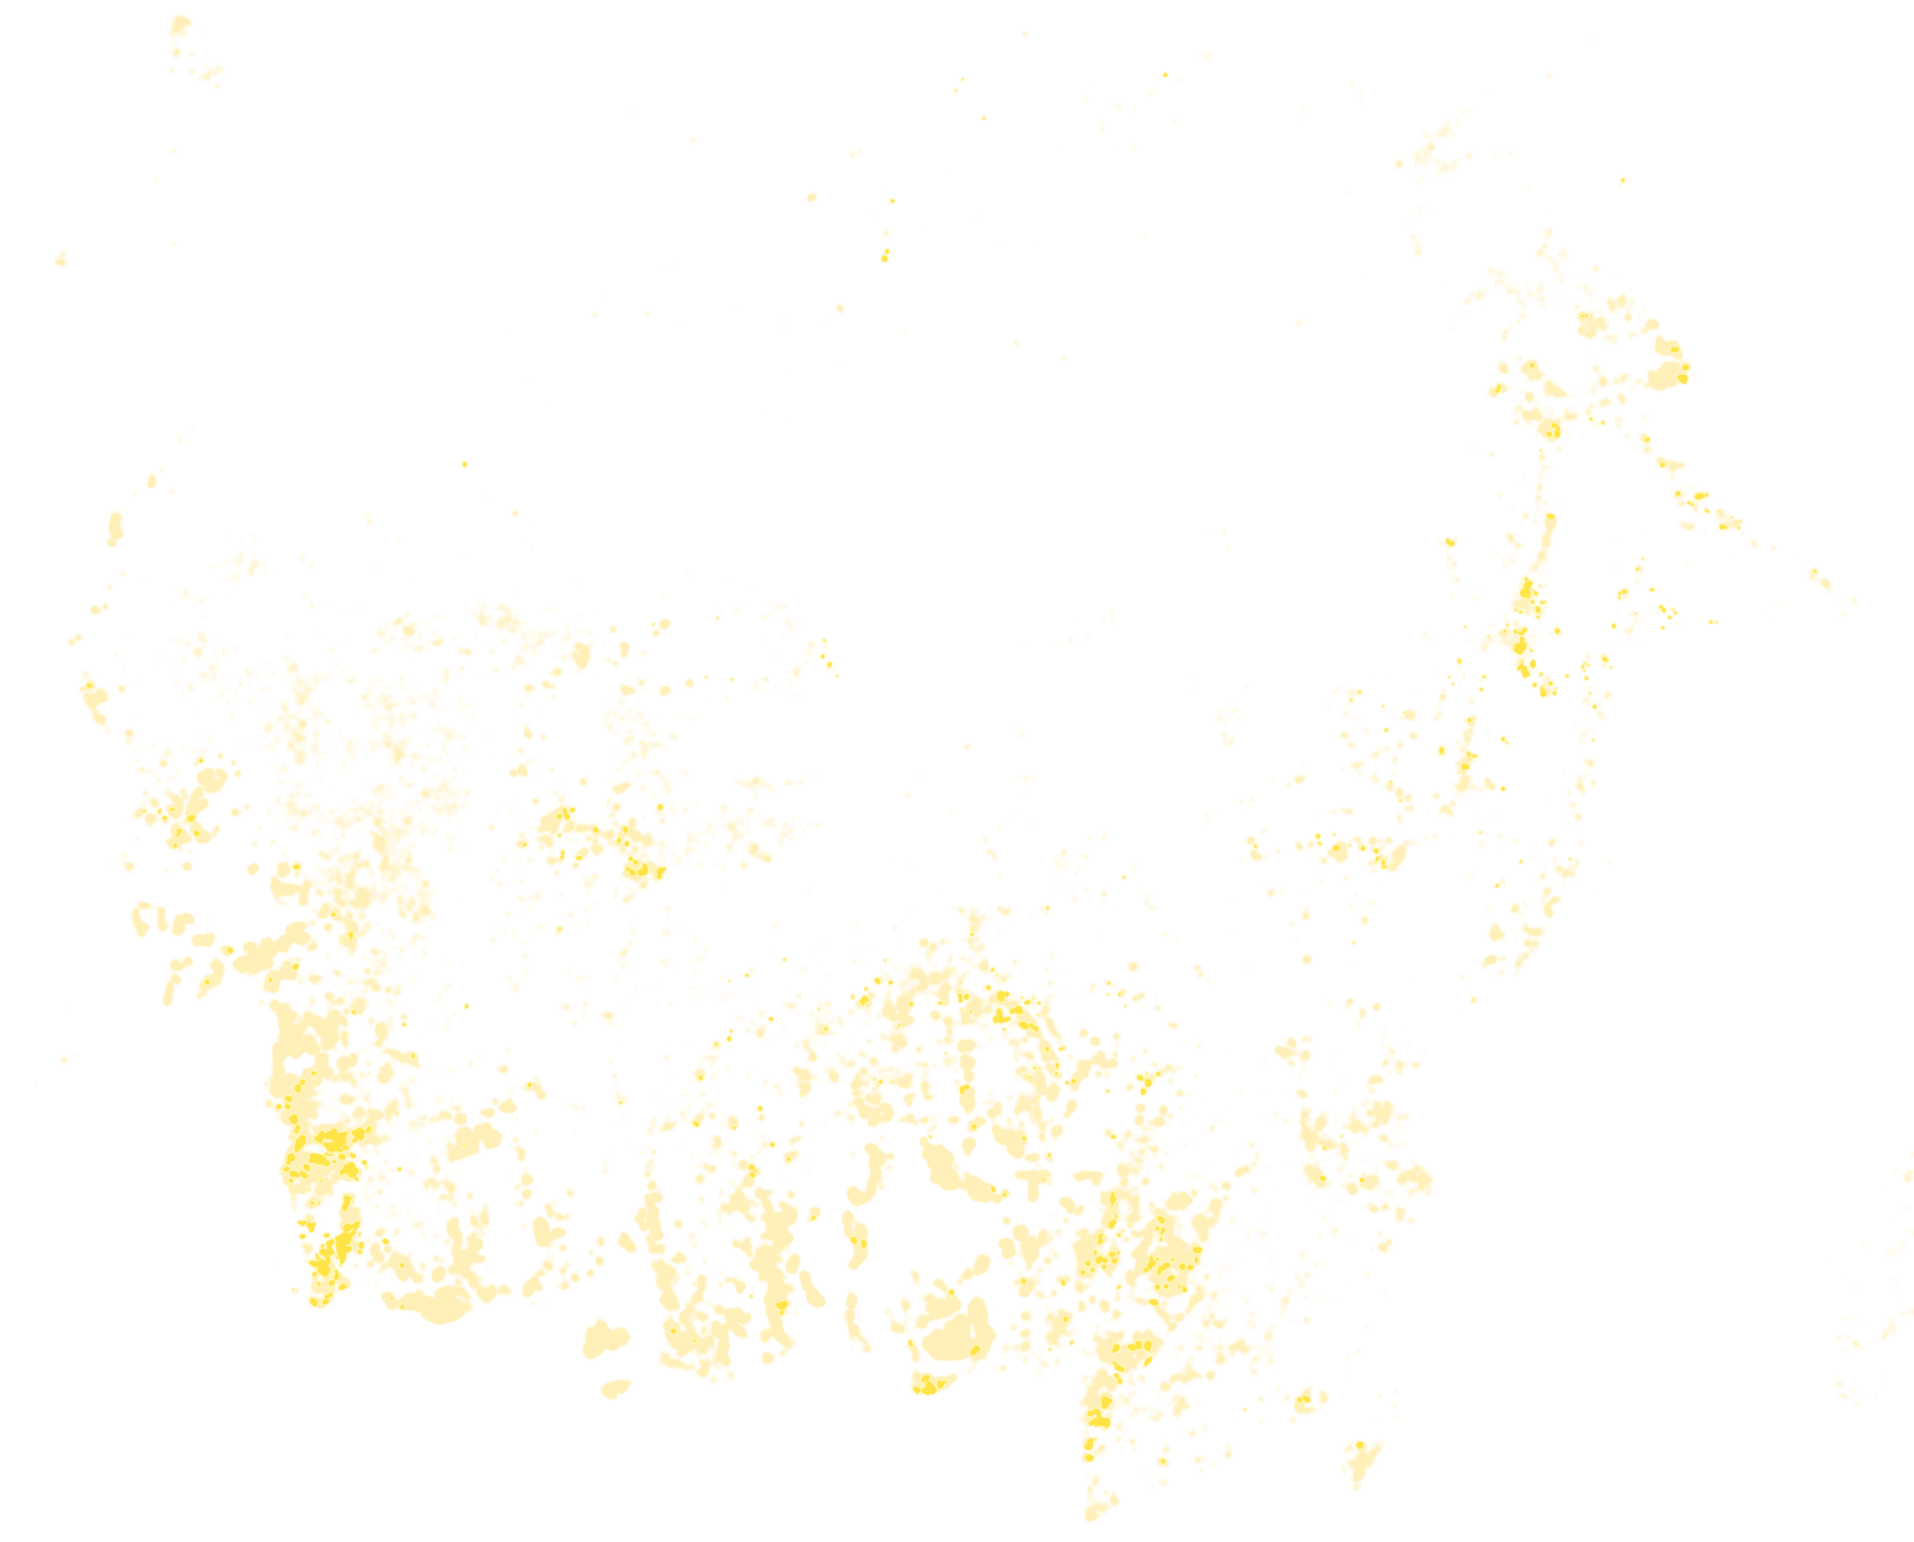
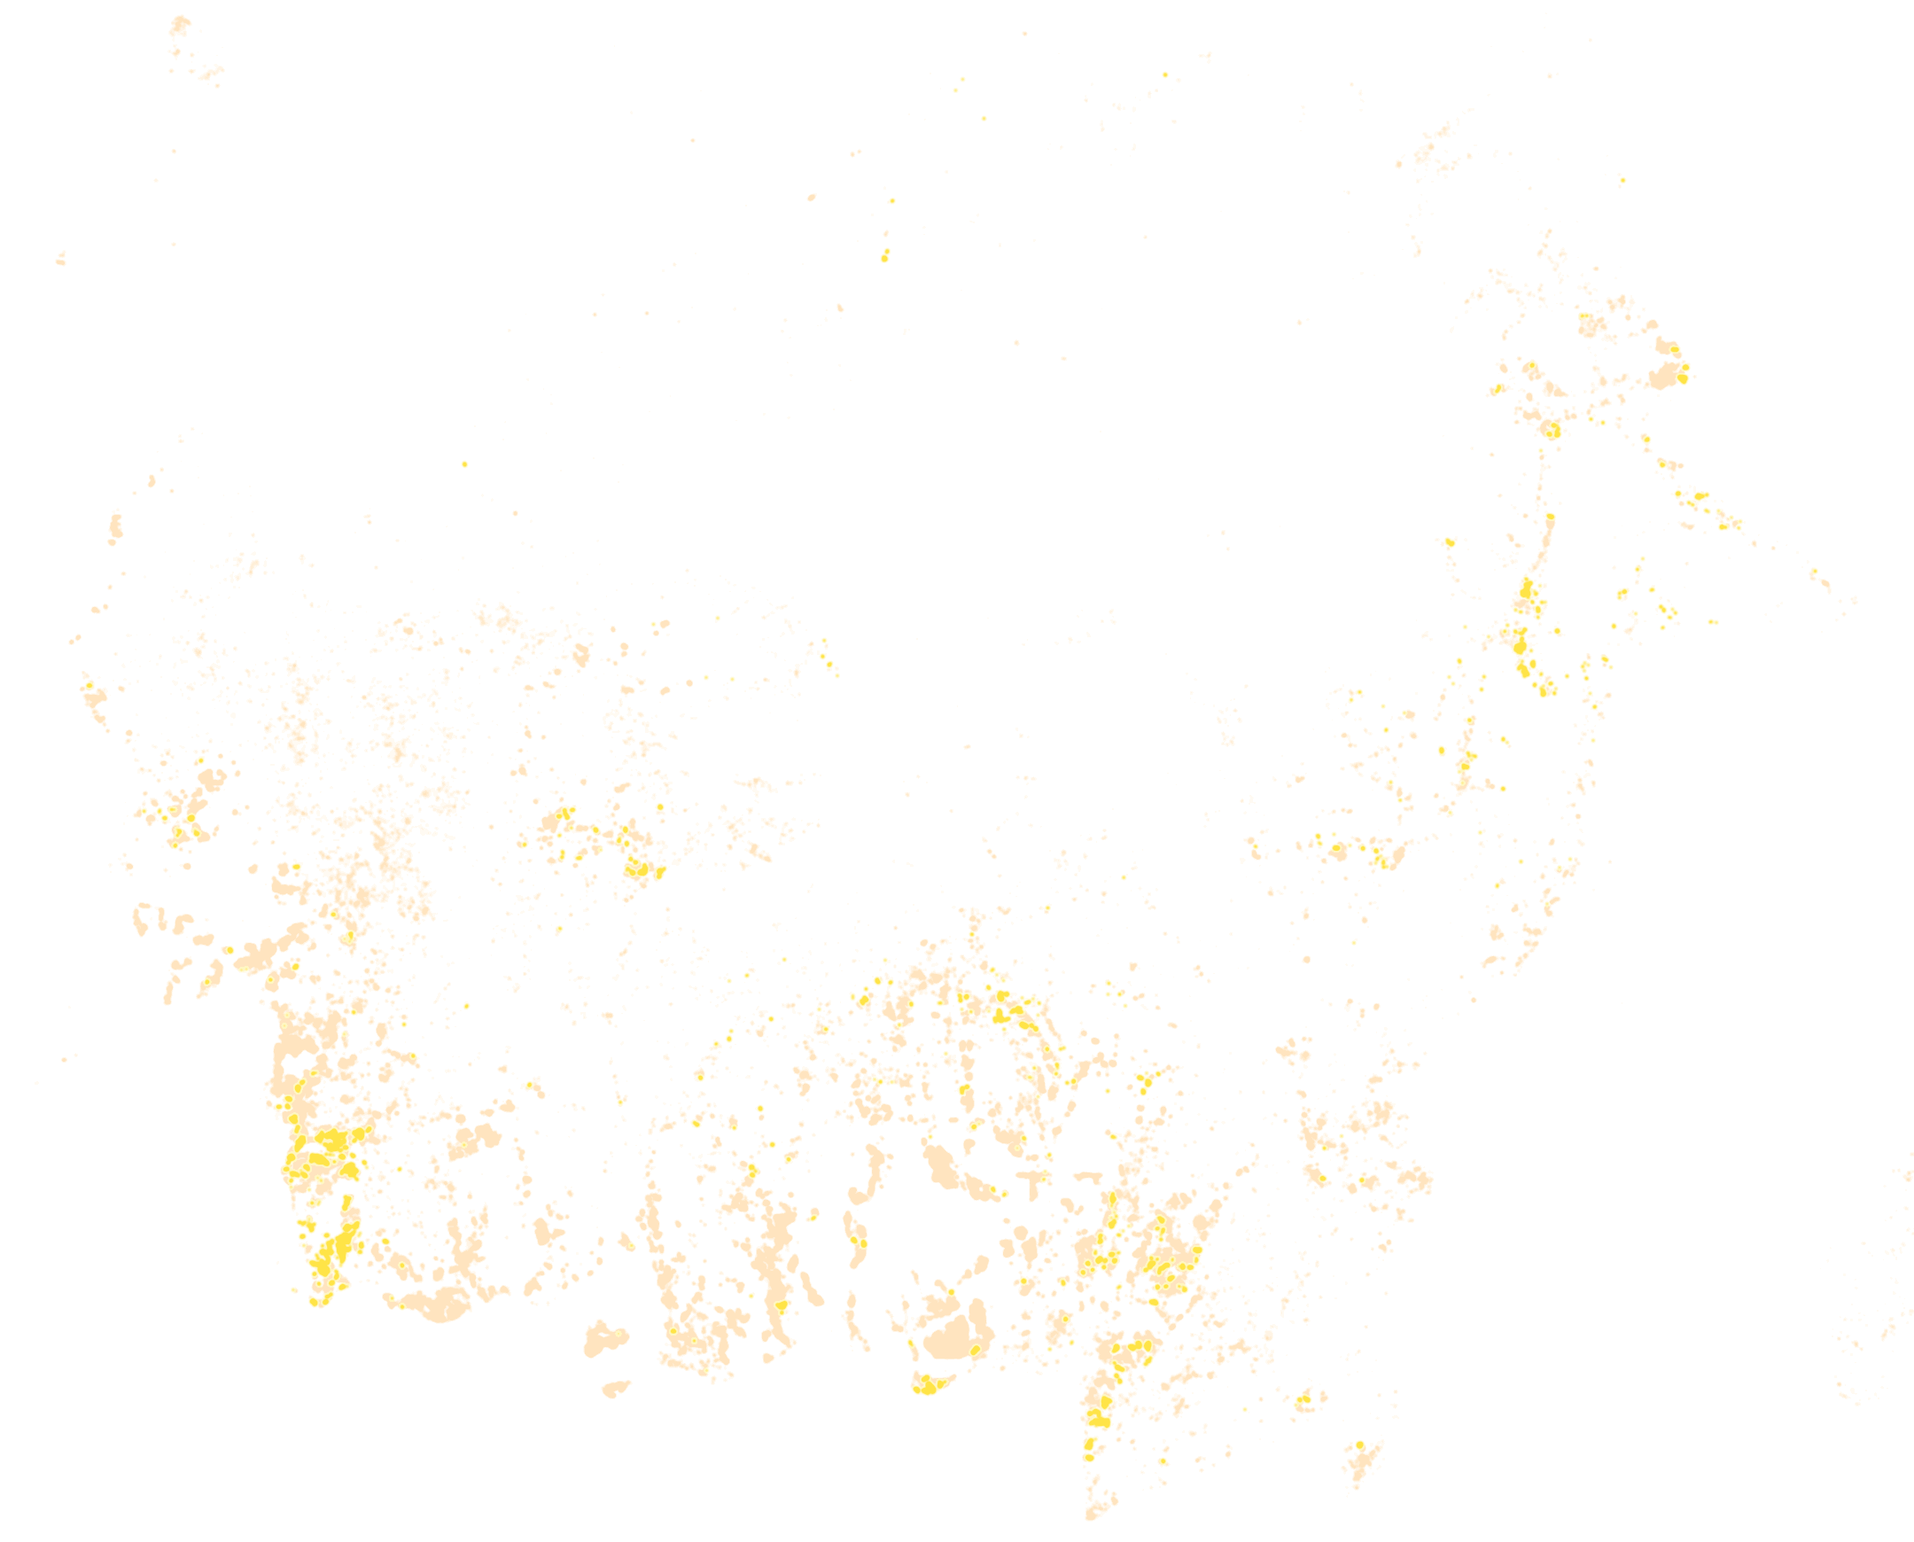
Fix review round 5: chapter 4 fits 800 px laptops, readable CO, warmer fire fields
Chapter 4: wide, short chart and tighter type at laptop heights so the
Ketapang chart opens fully above the dock; on phones it scrolls into view.
CO: three-stop violet ramp from 95 to 330 ppb, capped opacity, fine alpha
steps, so the plume's structure and the land both show; ppb on chips; chapter
1 text follows the Haze / Fire gas switch; Explore shows the matching scale
and note. Fire fields warm orange and tighter, key swatch soft. Smoke off
flies back to Borneo; AIRS and OPERA in the map credit; phone city line
dropped (chips carry it), Banjarmasin chip offset. SUBMISSION.md ignored.

diff --git a/web/app.js b/web/app.js
@@ -22,7 +22,7 @@
   L.control.zoom({ position: "topright" }).addTo(map);
   map.attributionControl.setPrefix(false);
   map.attributionControl.addAttribution("Radar: NISAR GCOV (NASA/ISRO, ASF DAAC) · Fires: NASA FIRMS · " +
-    "Smoke: NASA VIIRS Deep Blue AOD · Basemap: NASA Blue Marble (GIBS) · Peat: Peat-ML");
+    "Smoke: NASA VIIRS Deep Blue AOD · CO: NASA AIRS · Optical: NASA OPERA · Basemap: NASA Blue Marble (GIBS) · Peat: Peat-ML");
   const pane = (name, z) => { const p = map.createPane(name); p.style.zIndex = z; return p; };
   pane("radar", 402); pane("peat", 405); pane("fires", 410); pane("loss", 420); pane("peatburn", 425);
   pane("smoke", 430); pane("probe", 600);
@@ -55,7 +55,7 @@
   const level = (v) => v == null ? "none" : view.gas === "co"
     ? (v >= 200 ? "thick" : v >= 110 ? "hazy" : "clear")   // CO: June is about 80 ppbv
     : (v >= 2 ? "thick" : v >= 0.3 ? "hazy" : "clear");    // haze: matches the scale bar
-  const fmtReading = (v) => v == null ? "no reading" : view.gas === "co" ? `${v}` : v.toFixed(1);
+  const fmtReading = (v) => v == null ? "no reading" : view.gas === "co" ? `${v} ppb` : v.toFixed(1);
   let current = 0;
   function render() {
     const show = (el, on, o = 1) => { el.style.opacity = on ? o : 0; };
@@ -73,7 +73,7 @@
     view.smoke ? cities.addTo(map) : cities.remove();
     for (const { name, m } of cityMarkers) {
       const v = reading(name, current);
-      m.setIcon(L.divIcon({ className: `city ${level(v)}`, iconSize: null, html: `<b>${name}</b> ${fmtReading(v)}` }));
+      m.setIcon(L.divIcon({ className: `city ${level(v)} city-${name.replace(/\W/g, "")}`, iconSize: null, html: `<b>${name}</b> ${fmtReading(v)}` }));
     }
     document.querySelectorAll("[data-gas]").forEach((b) => b.classList.toggle("on", b.dataset.gas === view.gas));
     document.querySelectorAll(".gas-aod").forEach((el) => { el.hidden = view.gas !== "aod"; });
@@ -82,6 +82,8 @@
     $("tSmoke").checked = view.smoke && view.gas === "aod"; $("tCO").checked = view.smoke && view.gas === "co";
     $("tPeat").disabled = $("tFires").disabled = view.smoke;  // hidden under the smoke anyway
     $("smokeHides").hidden = !view.smoke;
+    $("smokeHides").textContent = `${view.gas === "co" ? "Fire gas" : "Smoke"} is on: the radar layers are hidden under it.`;
+    $("exploreScales").hidden = !view.smoke;
   }
 
   // --- Time.
@@ -203,7 +205,7 @@
   function drawChart() {
     if (!probeAt) return;
     const svg = $("chart");
-    const W = 300, H = 130, l = 30, r = 6, t = 8, b = 22;
+    const W = 300, H = 100, l = 30, r = 6, t = 6, b = 18;  // wide and short: fits under the chapter text
     const t0 = Date.parse(steps[0].start), t1 = Date.parse(steps[last].end);
     const xs = (d) => l + ((Date.parse(d) - t0) / (t1 - t0)) * (W - l - r);
     // Each line in % change from its own first (June) value. The axis spans at least -25% to +25% so ordinary
@@ -242,7 +244,7 @@
     const [la, lo] = KETAPANG;
     flyTo(L.latLngBounds([[la - 0.25, lo - 0.3], [la + 0.25, lo + 0.3]]), { duration: 1.4 });  // centred in the visible map
     if (arrive) map.off("moveend", arrive);
-    arrive = () => { arrive = null; openProbe(L.latLng(KETAPANG), "Ketapang peat dome", meta.ketapang_series, chapter < EXPLORE); };
+    arrive = () => { arrive = null; openProbe(L.latLng(KETAPANG), "Ketapang peat dome", meta.ketapang_series, chapter < EXPLORE && !narrow()); };
     map.once("moveend", arrive);
   };
 
@@ -260,12 +262,13 @@
   const chapters = [
     {
       title: "Smoke hid the fire season",
-      body: "Aug to Oct 2026: haze from burning forest and peat covered Borneo and reached Singapore. This is what normal satellites saw.",
+      body: `<span class="gas-aod">Aug to Oct 2026: haze from burning forest and peat covered Borneo and reached Singapore. This is what normal satellites saw.</span>` +
+        `<span class="gas-co" hidden>Fire gas: carbon monoxide from the burning, measured by NASA's AIRS even through haze. By late October it was 3.5 to 4 times its June level at every city.</span>`,
       widget: (meta.co ? `<div class="seg"><button type="button" data-gas="aod">Haze</button><button type="button" data-gas="co">Fire gas (CO)</button></div>` : "") +
         `<p class="cityline" data-live="cities"></p>
         <div class="gas-co" hidden><div class="cobar"></div>
-          <div class="aodticks"><span style="left:0">80 normal</span><span style="left:40%">200</span><span style="right:0">350 ppbv</span></div>
-          <p class="hint">Carbon monoxide, a gas from burning (smouldering peat makes the most), in parts per billion, 5 km up (NASA AIRS). About 4× its June level by October, at every city.</p></div>
+          <div class="aodticks"><span style="left:0">80 June</span><span style="left:45%">200</span><span style="right:0">330+ ppb</span></div>
+          <p class="hint">Carbon monoxide in parts per billion, 5 km up (NASA AIRS). Smouldering peat makes the most of it.</p></div>
         <div class="gas-aod"><div class="aodbar"></div>
         <div class="aodticks"><span style="left:0">clear</span><span style="left:26%">1 very hazy</span><span style="left:63%">2</span><span style="right:0">3+ smoke</span></div>
         <p class="hint">Haze level (aerosol optical depth): under 0.1 is a clear sky, 1 is very hazy (NASA Earth Observatory). <i class="key nodata"></i>Striped: no reading.</p></div>`,
@@ -280,7 +283,7 @@
     },
     {
       title: "It lines up with fire",
-      body: "Yellow dots are NASA fire detections from the 36 days up to the slider date. Bright ones sit next to a radar burn.",
+      body: "The glow is NASA fire detections from the 36 days up to the slider date. Bright yellow sits right next to a radar burn.",
       widget: near == null ? "" : `
         <div class="headline"><span class="big">${Math.round(near / chance)}×</span><span>more fire than chance</span></div>
         <div class="bars two">
@@ -297,7 +300,7 @@
         "Ketapang's peat dome is West Kalimantan's biggest burn.",
       // Two honest ends: the floor counts only peat loss a second NASA source confirmed; the top counts all radar loss.
       widget: (optical && optical.confirmed_co2_mt
-        ? `<div class="big">${Math.floor(optical.confirmed_co2_mt[0])}–${Math.round(lastStep.co2_mt)}</div><small>million tonnes of CO₂: ${Math.floor(optical.confirmed_co2_mt[0])} from peat loss a second satellite confirmed, ${Math.round(lastStep.co2_mt)} from all radar loss on peat. Like ${Math.round(Math.floor(optical.confirmed_co2_mt[0]) / 4.6)}–${Math.round(lastStep.cars_m)} million cars for a year.</small>`
+        ? `<div class="big">${Math.floor(optical.confirmed_co2_mt[0])}–${Math.round(lastStep.co2_mt)}</div><small>million tonnes of CO₂ (low end: confirmed by a second satellite; high end: all radar loss on peat).<span class="carline"> Like ${Math.round(Math.floor(optical.confirmed_co2_mt[0]) / 4.6)}–${Math.round(lastStep.cars_m)} million cars for a year.</span></small>`
         : `<div class="big" data-live="co2"></div><small>million tonnes of CO₂ (estimate, <span data-live="co2short"></span>): <span data-live="cars"></span></small>`) + `
         <p class="keys"><span><i class="key peat"></i>peat</span><span><i class="key peatburn"></i>burned peat</span><span><i class="key red"></i>other burns</span></p>`,
       enter() { Object.assign(view, { smoke: false, fires: false, peat: true }); stop(); setStep(last); ketapangJump(); },
@@ -328,7 +331,7 @@
       const c = chapters[n];
       $("chNo").textContent = `${n + 1} of ${chapters.length}`;
       $("chTitle").textContent = c.title;
-      $("chBody").textContent = c.body;
+      $("chBody").innerHTML = c.body;  // chapter text is ours, not user input
       $("chWidget").innerHTML = c.widget;
       c.enter();
     } else {
@@ -366,6 +369,7 @@
     view.smoke = e.target.checked; if (view.smoke) view.gas = gas;
     setStep(current);
     if (view.smoke && !was) { closeProbe(); flyTo(region); }
+    if (!view.smoke && was) flyTo(bounds);  // back to the island the radar covers
   };
   $("tSmoke").addEventListener("change", smokeToggle("aod"));
   $("tCO").addEventListener("change", smokeToggle("co"));

diff --git a/web/style.css b/web/style.css
@@ -155,7 +155,7 @@ h2 { margin: 0 0 10px; font-size: 30px; line-height: 1.1; letter-spacing: -0.015
 .bars.two { grid-template-columns: 1fr 1fr; gap: 10px; }
 .bars.two .bar { margin-top: 0; }
 .key.fire { background: #ffe23c; }
-.key.firefaint { background: rgba(255, 214, 70, 0.4); }
+.key.firefaint { background: radial-gradient(circle, rgba(255,170,50,0.75), rgba(255,170,50,0.15)); }
 .leaflet-fires-pane.glow { filter: drop-shadow(0 0 1.5px #ffd23c) drop-shadow(0 0 3px rgba(255, 210, 60, 0.7)); }
 .fadetop { -webkit-mask-image: linear-gradient(to bottom, transparent 1%, #000 5%); mask-image: linear-gradient(to bottom, transparent 1%, #000 5%); }
 .headline { display: flex; align-items: baseline; gap: 10px; margin-bottom: 4px; }
@@ -176,9 +176,23 @@ input[type="checkbox"]:disabled + * , label:has(input:disabled) { opacity: 0.45;
   .limits { display: none; }
 }
 #chart .zero { stroke: #55615a; stroke-dasharray: 2 3; }
-#chart { max-height: 118px; }
+
 @media (max-width: 700px) { .big { font-size: 34px; } .widget small { font-size: 12px; } .probenote { font-size: 13px; } }
 .seg { display: inline-flex; border: 1px solid var(--line); border-radius: 8px; overflow: hidden; margin-bottom: 10px; }
 .seg button { background: var(--chip); color: var(--muted); border: 0; padding: 6px 12px; cursor: pointer; font-size: 13px; }
 .seg button.on { background: var(--ink); color: var(--bg); font-weight: 600; }
-.cobar { height: 10px; border-radius: 3px; background: linear-gradient(90deg, rgba(196,150,255,0.05), rgba(160,90,210,0.45) 40%, rgba(118,20,150,0.7)); }
+.cobar { height: 10px; border-radius: 3px; background: linear-gradient(90deg, rgba(215,175,255,0.1), rgba(215,175,255,0.6) 25%, rgb(200,70,225) 55%, rgb(120,20,165)); }
+/* Laptop screens around 800 px tall: tighten the story so chapter 4's chart clears the dock. */
+@media (min-width: 701px) and (max-height: 880px) {
+  .brand .kicker { display: none; }
+  h2 { font-size: 26px; margin-bottom: 8px; }
+  .chbody { font-size: 15px; margin-bottom: 12px; }
+  .big { font-size: 46px; }
+  .probe { padding-top: 10px; }
+  .carline { display: none; }
+  #panel { gap: 14px; }
+}
+@media (max-width: 700px) {
+  .cityline { display: none; }        /* the chips on the map carry the same numbers */
+  .city-Banjarmasin { transform: translate(-50%, 40%); }
+}

diff --git a/web/index.html b/web/index.html
@@ -36,6 +36,10 @@
         <label><input type="checkbox" id="tSmoke"> Smoke <span class="hint">what normal satellites see</span></label>
         <label><input type="checkbox" id="tCO"> Fire gas <span class="hint">carbon monoxide, NASA AIRS</span></label>
         <p class="hint" id="smokeHides" hidden>Smoke is on: the radar layers are hidden under it.</p>
+        <div id="exploreScales" hidden>
+          <div class="gas-aod"><div class="aodbar"></div><div class="aodticks"><span style="left:0">clear</span><span style="left:26%">1 very hazy</span><span style="left:63%">2</span><span style="right:0">3+ smoke</span></div></div>
+          <div class="gas-co" hidden><div class="cobar"></div><div class="aodticks"><span style="left:0">80 June</span><span style="left:45%">200</span><span style="right:0">330+ ppb</span></div></div>
+        </div>
       </div>
       <div class="jumps">
         <button type="button" class="jump" data-jump="ketapang">Ketapang peat dome →</button>
@@ -50,7 +54,7 @@
       </div>
       <p class="probenote" id="probeNote"></p>
       <p class="legend"><span class="hv"></span>leaf echo (HV) <span class="hh"></span>ground and trunk echo (HH)</p>
-      <svg id="chart" viewBox="0 0 300 130" role="img" aria-label="Radar brightness over time"></svg>
+      <svg id="chart" viewBox="0 0 300 100" role="img" aria-label="Radar brightness over time"></svg>
     </section>
 
     <p class="limits">Radar values are relative brightness from NISAR browse images, not calibrated backscatter. Radar map: Borneo south of 4.2° N. Sources and method: see the README.</p>

diff --git a/pipeline/co.py b/pipeline/co.py
@@ -19,7 +19,7 @@ import smoke
 LAYERS = ("AIRS_L3_Carbon_Monoxide_500hPa_Volume_Mixing_Ratio_Daily_Day",
           "AIRS_L3_Carbon_Monoxide_500hPa_Volume_Mixing_Ratio_Daily_Night")
 COLORMAP = "https://gibs.earthdata.nasa.gov/colormaps/v1.3/AIRS_Carbon_Monoxide_Volume_Mixing_Ratio.xml"
-LOW, HIGH = 100.0, 350.0  # ppbv: transparent at June-like levels, full colour at the colormap ceiling
+LOW, HIGH = 95.0, 330.0  # ppbv: transparent at June-like levels (about 80), saturated at the fire-season peak
 
 
 def main() -> None:
@@ -50,11 +50,15 @@ def main() -> None:
         # AIRS L3 cells are 1 degree (40 of our pixels): a wide fill and smooth turns the blocks into a plume.
         mean = smoke.fill(np.where(np.isfinite(raw[s]), raw[s], nb), sigma=14, reach=30)
         t = np.nan_to_num(np.clip((mean - LOW) / (HIGH - LOW), 0, 1), nan=0)
-        light, dark = np.array([196, 150, 255], np.float32), np.array([118, 20, 150], np.float32)  # violet: not smoke, fire or loss
+        # Three-stop violet ramp (light lilac, magenta, deep violet) so 150, 220 and 300 ppbv look different.
+        stops = np.array([[215, 175, 255], [200, 70, 225], [120, 20, 165]], np.float32)
+        lo_half = np.clip(t * 2, 0, 1)[..., None]
+        hi_half = np.clip(t * 2 - 1, 0, 1)[..., None]
+        col = np.where(t[..., None] < 0.5, stops[0] + (stops[1] - stops[0]) * lo_half, stops[1] + (stops[2] - stops[1]) * hi_half)
         rgba = np.zeros((smoke.H, smoke.W, 4), np.uint8)
-        rgba[..., :3] = (light + (dark - light) * t[..., None]).astype(np.uint8)
-        a = np.where(np.isfinite(mean), t * 175, 0)  # linear and capped, so plume structure and land still show
-        rgba[..., 3] = ((a // 12) * 12).astype(np.uint8)  # rounded alpha keeps the PNG small
+        rgba[..., :3] = col.astype(np.uint8)
+        a = np.where(np.isfinite(mean), np.clip((mean - LOW) / 110, 0, 1) ** 0.7 * 160, 0)  # visible early, capped so land shows
+        rgba[..., 3] = ((a // 5) * 5).astype(np.uint8)  # fine alpha steps: no visible terracing
         Image.fromarray(rgba).save(mosaic.WEB / f"co_{s:02d}.png", optimize=True)
         for name, (lat, lon) in smoke.CITIES.items():
             r, c = int((smoke.NORTH - lat) / 0.025), int((lon - smoke.WEST) / 0.025)

diff --git a/pipeline/firms.py b/pipeline/firms.py
@@ -242,13 +242,13 @@ def write_layers(points: list[list]) -> None:
         hit = seen & (near_onset <= s)
         # Aggregate into soft clusters (density over about 1.5 km) so fire areas stay visible at island zoom,
         # where a single 280 m pixel is smaller than a screen pixel.
-        dens = gaussian_filter(seen.astype(np.float32), 5)
-        a_all = np.clip(dens * 9, 0, 1)
+        dens = gaussian_filter(seen.astype(np.float32), 3)
+        a_all = np.clip(dens * 6, 0, 1)
         dens_hit = gaussian_filter(binary_dilation(hit, iterations=2).astype(np.float32), 3)
         a_hit = np.clip(dens_hit * 3, 0, 1)
         rgba = np.zeros((*shape, 4), np.uint8)
-        rgba[..., 0], rgba[..., 1], rgba[..., 2] = 255, 214, 70        # other fires: same yellow, see-through
-        rgba[..., 3] = (a_all * 105).astype(np.uint8)
+        rgba[..., 0], rgba[..., 1], rgba[..., 2] = 255, 170, 50        # other fires: warm orange, see-through (reads as fire, not khaki)
+        rgba[..., 3] = (a_all * 95).astype(np.uint8)
         top = a_hit > 0.05                                              # fires next to a radar burn: solid yellow on top
         rgba[top, 0], rgba[top, 1], rgba[top, 2] = 255, 226, 60
         rgba[top, 3] = np.maximum(rgba[top, 3], (a_hit[top] * 255).astype(np.uint8))
